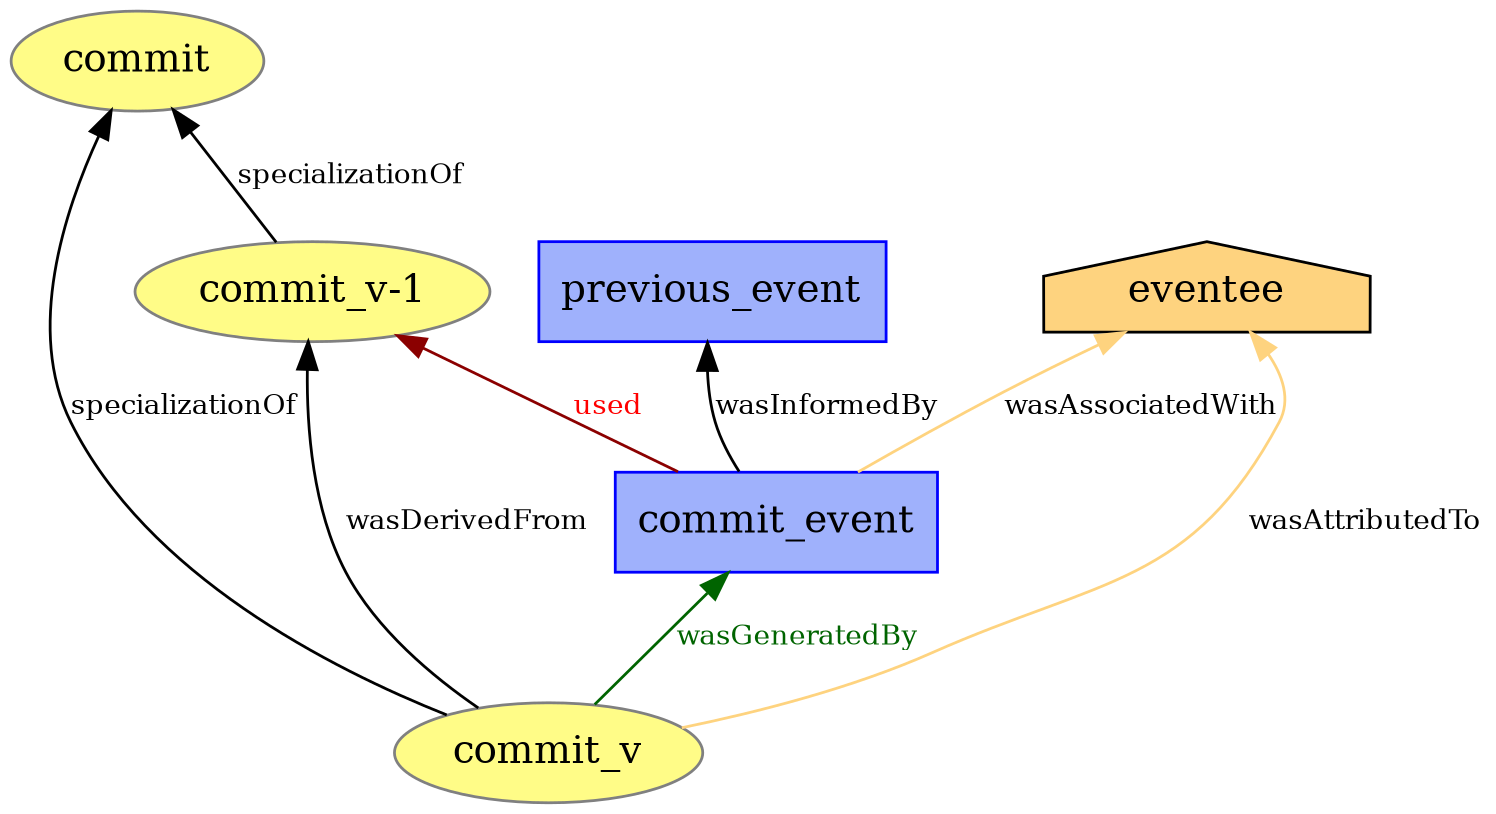
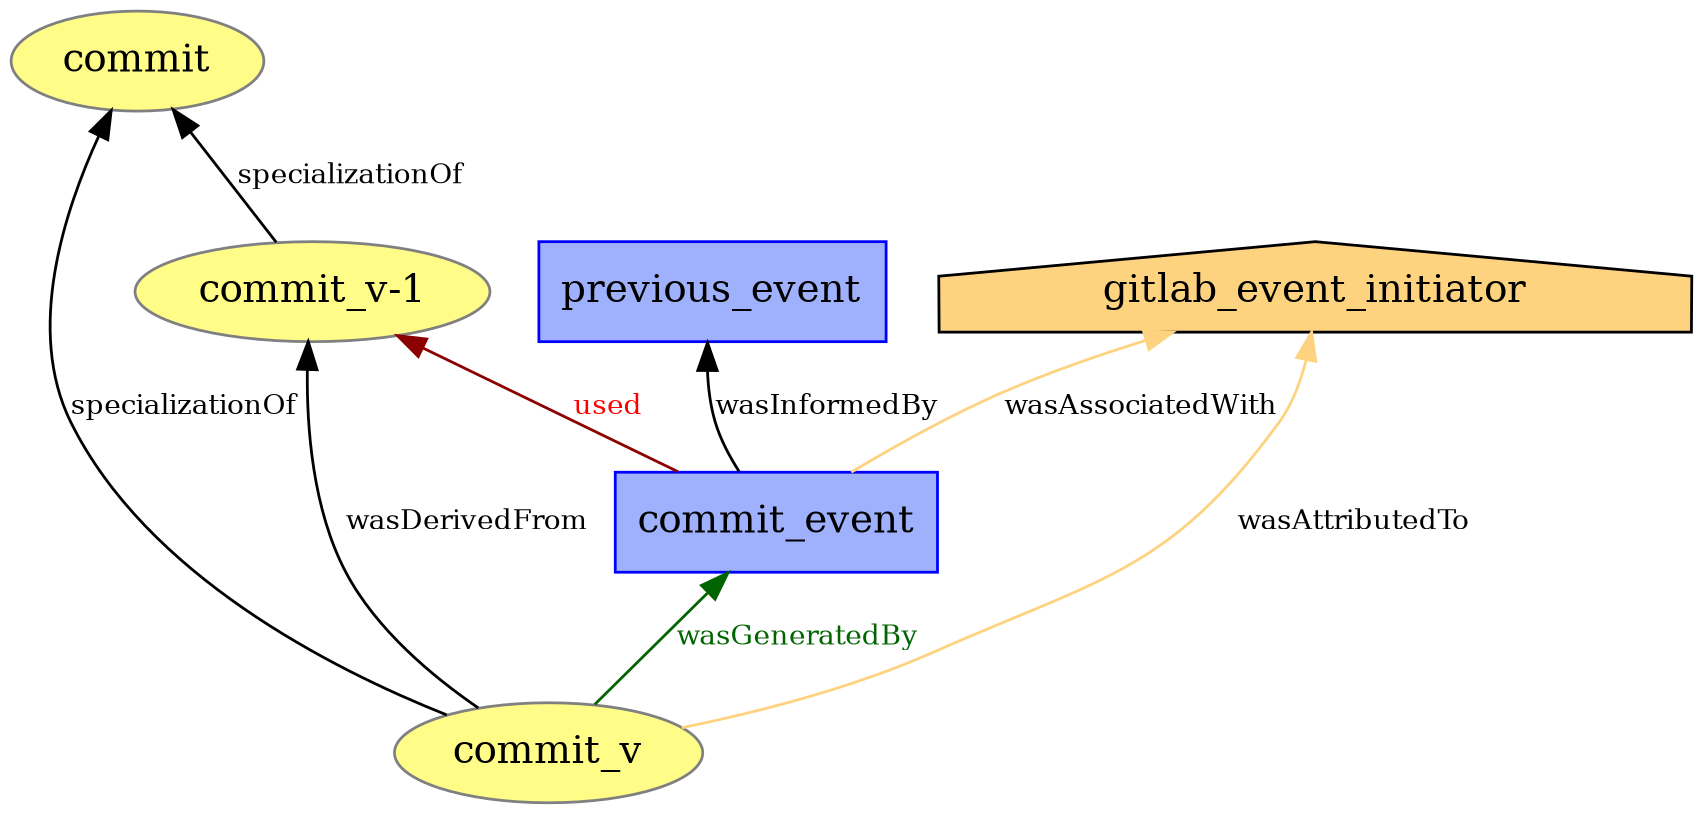
Rename to unify naming scheme

diff --git a/models/issue_model_new_issue_event.py b/models/issue_model_new_issue_event.py
@@ -6,20 +6,20 @@ document.set_default_namespace("gl2p:")
 
 # Nodes
 document.entity("issue")
-document.entity("issue_version")
-document.entity("issue_version_annotation")
-document.activity("issue_event_annotation")
-document.activity("annotator_commit")
-document.agent("gitlab_annotator")
+document.entity("issue_v-1")
+document.entity("issue_v")
+document.activity("issue_event")
+document.activity("previous_event")
+document.agent("gitlab_event_initiator")
 
 # Relations
-document.used("issue_event_annotation", "issue_version")
-document.wasGeneratedBy("issue_version_annotation", "issue_event_annotation")
-document.wasDerivedFrom("issue_version_annotation", "issue_version")
-document.specializationOf("issue_version_annotation", "issue")
-document.specializationOf("issue_version", "issue")
-document.wasInformedBy("issue_event_annotation", "annotator_commit")
-document.wasAssociatedWith("issue_event_annotation", "gitlab_annotator")
-document.wasAttributedTo("issue_version_annotation", "gitlab_annotator")
+document.used("issue_event", "issue_v-1")
+document.wasGeneratedBy("issue_v", "issue_event")
+document.wasDerivedFrom("issue_v", "issue_v-1")
+document.specializationOf("issue_v", "issue")
+document.specializationOf("issue_v-1", "issue")
+document.wasInformedBy("issue_event", "previous_event")
+document.wasAssociatedWith("issue_event", "gitlab_event_initiator")
+document.wasAttributedTo("issue_v", "gitlab_event_initiator")
 
 ISSUE_MODEL_NEW_ISSUE_EVENT = document

diff --git a/models/commit_model_new_commit_event.py b/models/commit_model_new_commit_event.py
@@ -10,7 +10,7 @@ document.entity("commit_v-1")
 document.entity("commit_v")
 document.activity("previous_event")
 document.activity("commit_event")
-document.agent("eventee")
+document.agent("gitlab_event_initiator")
 
 # Relations
 document.used("commit_event", "commit_v-1")
@@ -19,7 +19,7 @@ document.wasDerivedFrom("commit_v", "commit_v-1")
 document.specializationOf("commit_v", "commit")
 document.specializationOf("commit_v-1", "commit")
 document.wasInformedBy("commit_event", "previous_event")
-document.wasAssociatedWith("commit_event", "eventee")
-document.wasAttributedTo("commit_v", "eventee")
+document.wasAssociatedWith("commit_event", "gitlab_event_initiator")
+document.wasAttributedTo("commit_v", "gitlab_event_initiator")
 
 COMMIT_MODEL_NEW_COMMIT_EVENT = document

diff --git a/models/issue_model_marked_as_duplicate.py b/models/issue_model_marked_as_duplicate.py
@@ -6,9 +6,9 @@ document.set_default_namespace("gl2p:")
 
 # Nodes
 document.entity("previous_issue")
-document.entity("issue_version_annotation")
+document.entity("issue_version")
 
 # Relations
-document.alternateOf("issue_version_annotation", "previous_issue")
+document.alternateOf("issue_version", "previous_issue")
 
 ISSUE_MODEL_MARKED_AS_DUPLICATE = document
